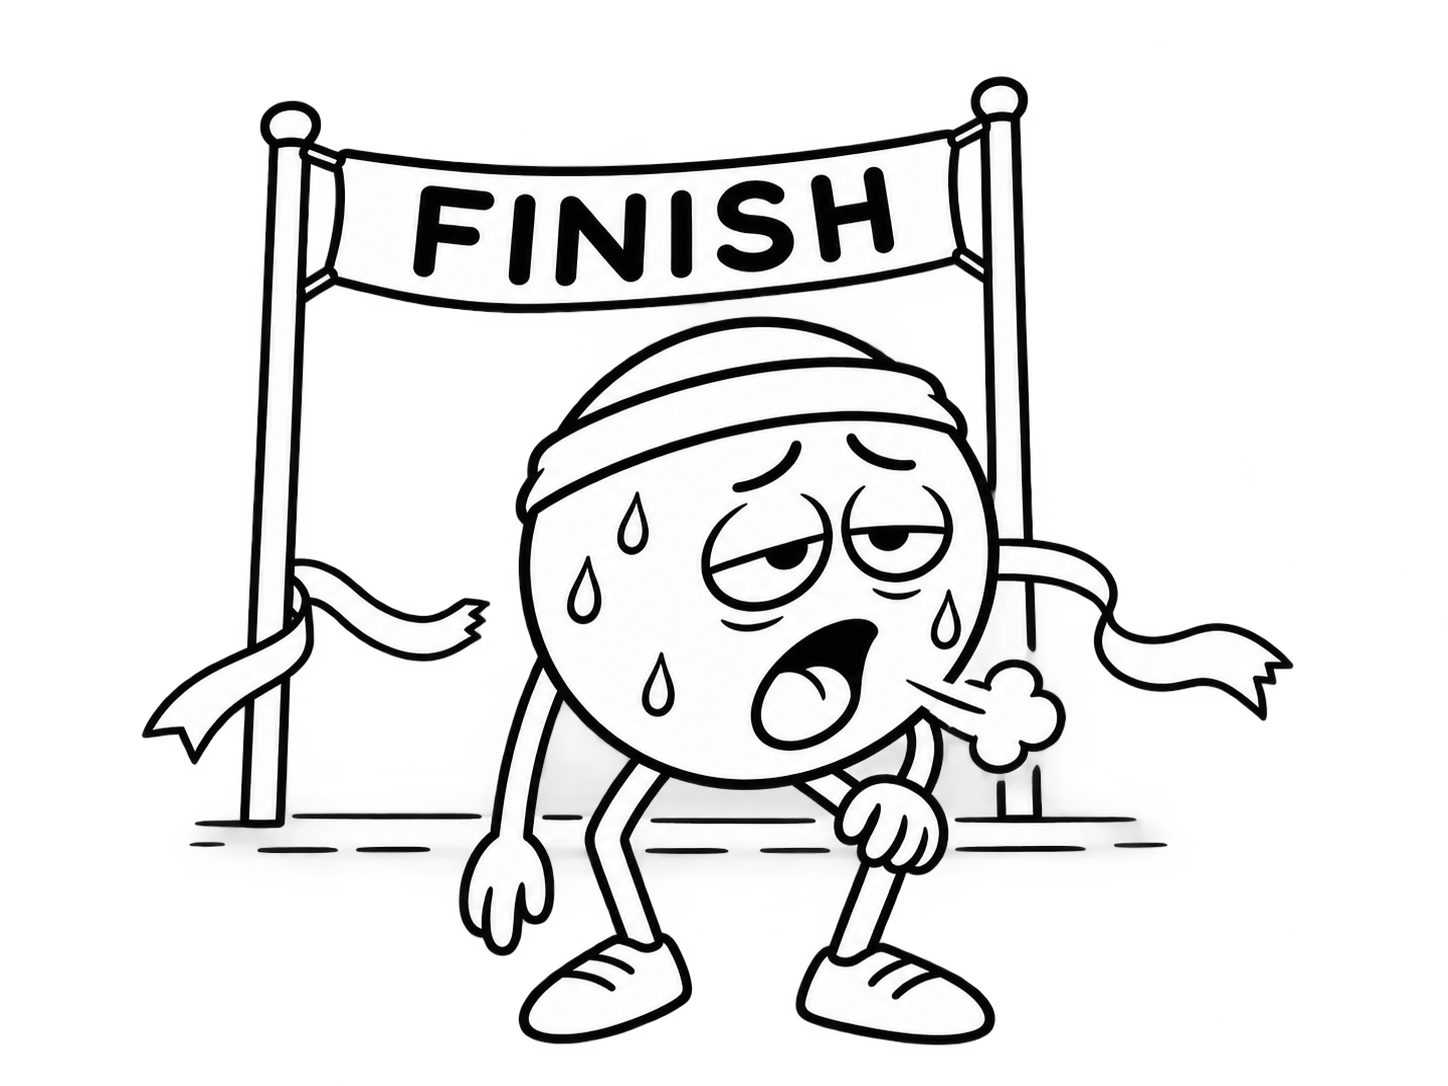
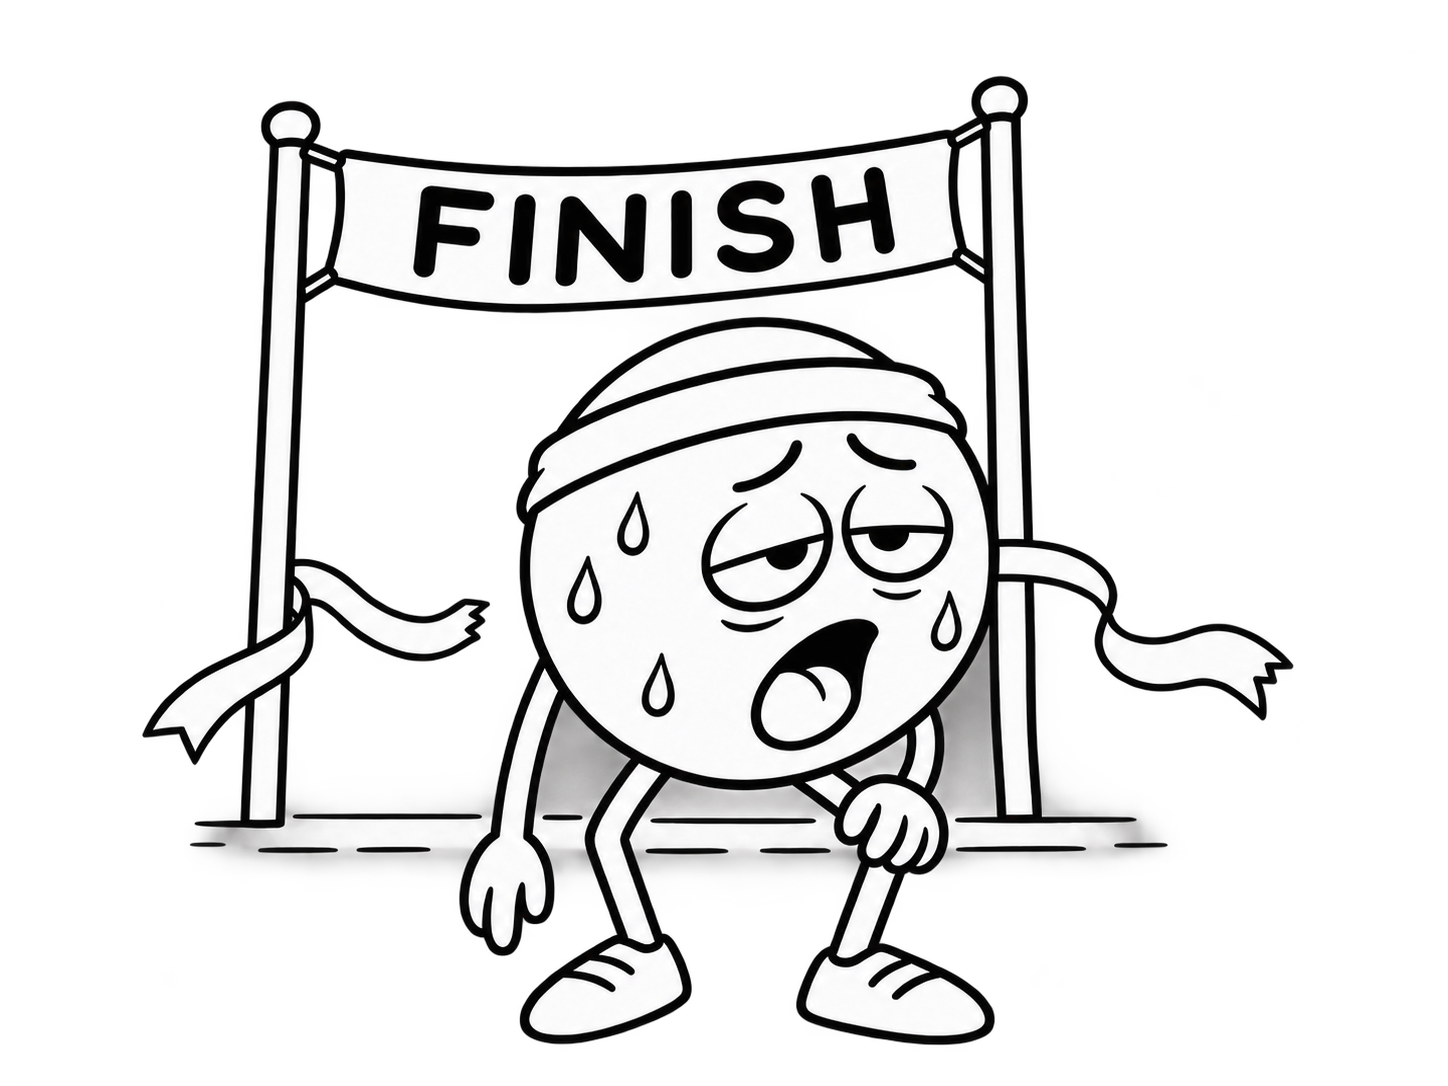
Remove exhalation puff from midterm finish-line illustration

diff --git a/docs/midterm/index.html b/docs/midterm/index.html
@@ -14,7 +14,7 @@
   <main id="top">
     <section class="hero" aria-labelledby="hero-title">
       <div class="hero-copy"><p class="eyebrow">Machine learning for political science · Fall 2026</p><h1 id="hero-title">The midterm,<br><em>unpacked.</em></h1><p class="hero-dek">Seven short-answer questions.<br>Follow the reasoning, one scroll at a time.</p><a class="begin" href="#q19">Begin with question 19 <span aria-hidden="true">↓</span></a></div>
-      <div class="hero-art"><img src="assets/marathon-finish.png" width="1448" height="1086" fetchpriority="high" alt="An exhausted round, torso-less runner slumps just beyond a marathon finish line, with a broken finish ribbon behind them."></div>
+      <div class="hero-art"><img src="assets/marathon-finish.png?v=1e086f90cd06" width="1448" height="1086" fetchpriority="high" alt="An exhausted round, torso-less runner slumps just beyond a marathon finish line, with a broken finish ribbon behind them."></div>
     </section>
     <section class="contents" aria-labelledby="contents-title"><div class="contents-label"><p class="eyebrow">The short answers</p><h2 id="contents-title">Choose a starting point.</h2><p>Questions 19–20 were required;<br>21–25 offered a choice of three.<br>All seven are explained here.</p></div><ol id="chapter-list" start="19"></ol></section>
     <div id="chapters"></div>
